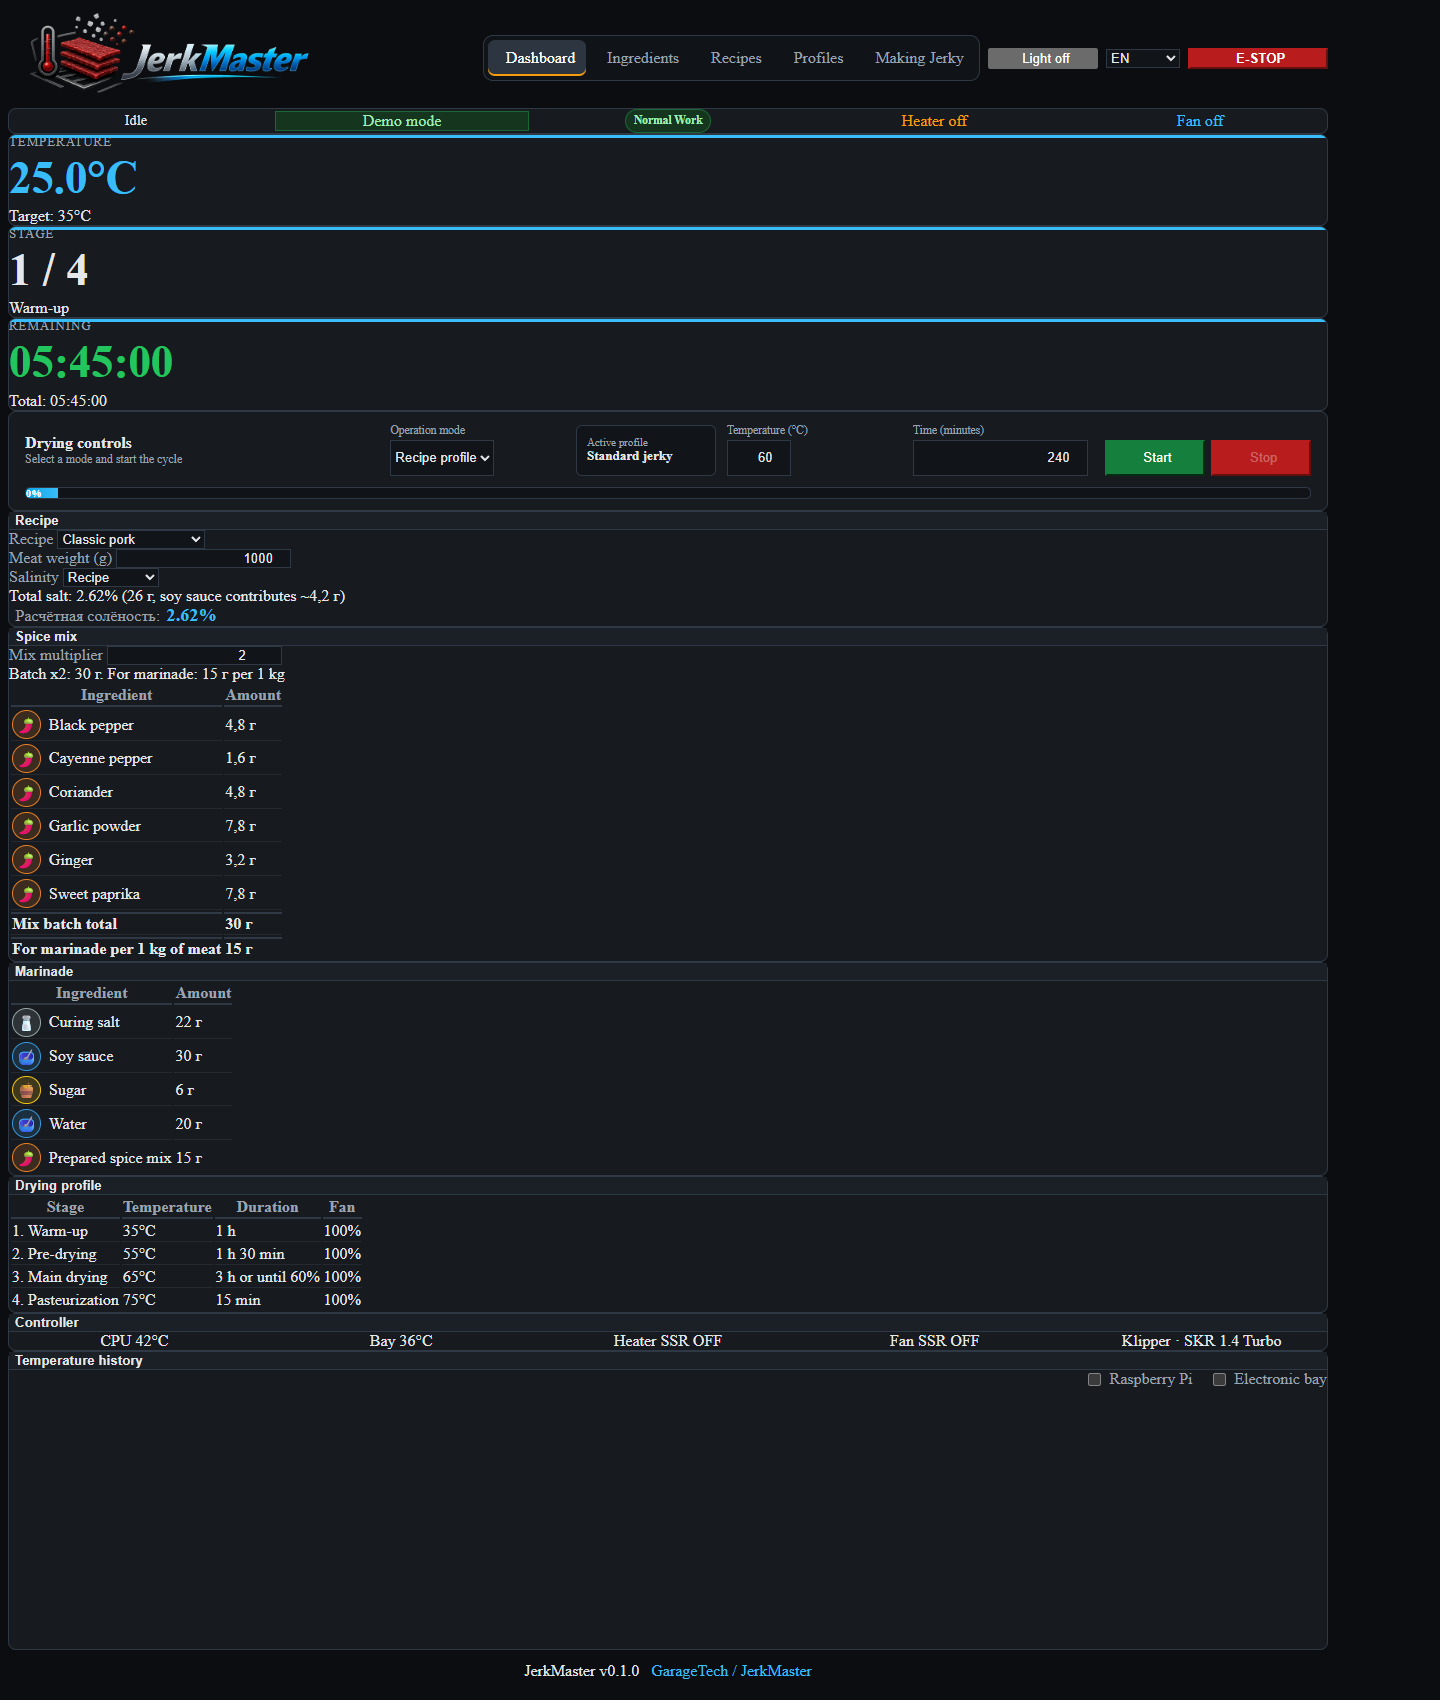
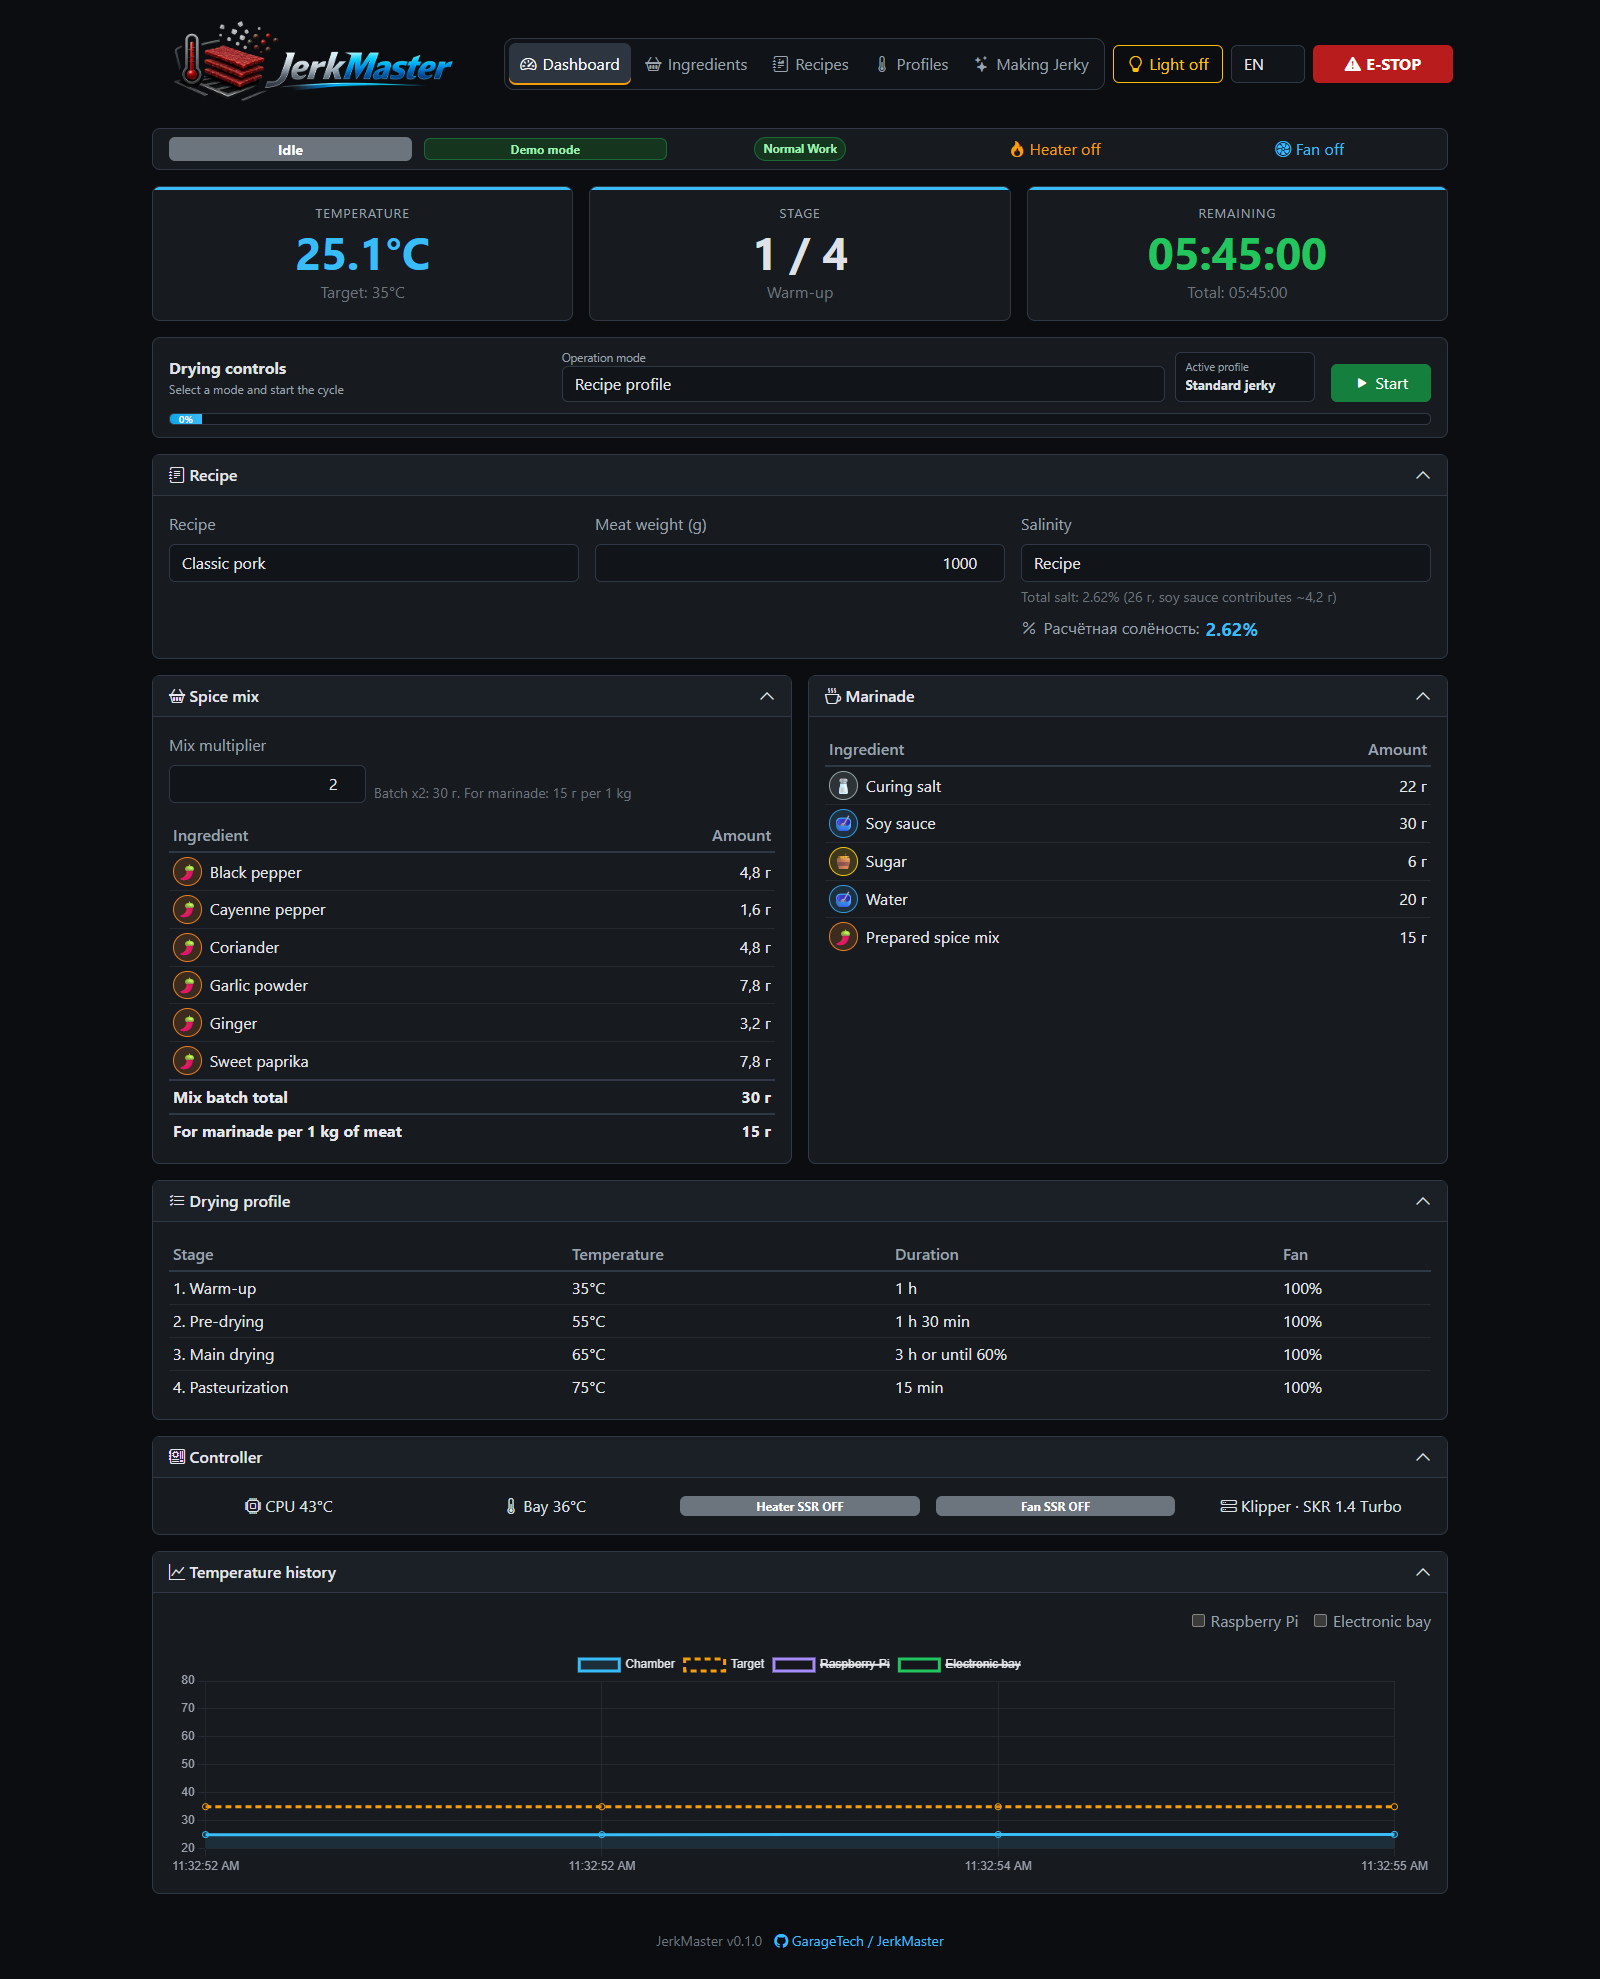
Fix dashboard screenshot and surface dehydrator sketch

diff --git a/README.md b/README.md
@@ -25,6 +25,8 @@ Today jerky is often associated with a snack for beer, but in reality it can be 
 
 JerkMaster was not created as a hardware experiment or simply as another DIY project. It was born from a practical problem.
 
+![JerkMaster dehydrator cutaway blueprint](img/docs/illustrations/jerkmaster-cutaway-blueprint.png)
+
 Over the years I made jerky using several different dehydrators. Some were simple, some were more advanced, but all of them shared the same limitation: they treated drying as a fixed temperature and time process. In practice, good jerky is more nuanced than that.
 
 One of the key ideas behind JerkMaster is staged temperature drying. Instead of immediately exposing the meat to high temperatures, the product is dried gradually. This allows moisture to leave the meat more evenly. When meat is placed directly into a dehydrator running at 65°C, the outer layer can dry too quickly, forming a surface crust while the inside still retains excess moisture. A gradual temperature profile helps achieve a more consistent texture, better moisture distribution, and a more predictable final result.

diff --git a/docs/build-notes.md b/docs/build-notes.md
@@ -19,7 +19,7 @@ This project did not start with choosing a dehydrator specifically for modificat
 
 By coincidence, this particular model turned out to be a very good platform for this type of conversion.
 
-![JerkMaster dehydrator cutaway blueprint](../img/docs/illustrations/jerkmaster-cutaway-blueprint.webp)
+![JerkMaster dehydrator cutaway blueprint](../img/docs/illustrations/jerkmaster-cutaway-blueprint.png)
 
 VEVOR sells several dehydrators in this line, differing in size, power and number of drying trays. However, they appear to share a very similar layout: a stainless steel drying chamber, rear-mounted fan and heater assembly, and a separate electronics bay located at the top of the unit.
 